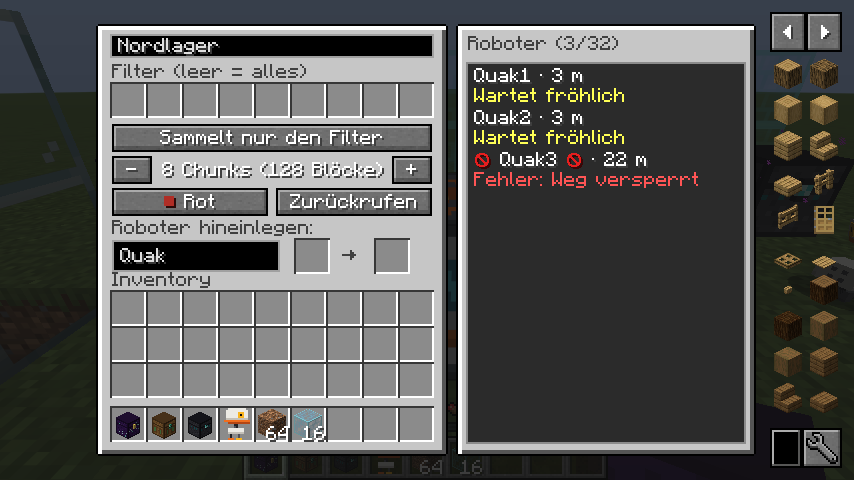
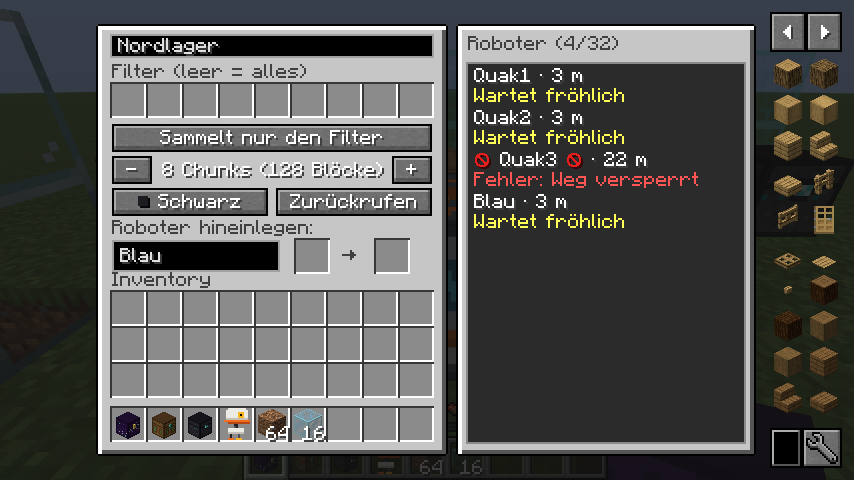
README: each robot keeps its own settings; station list with a differently set up robot
Claude-Session: https://claude.ai/code/session_01PrmjDFV55ANqJ3JywmcmfC

diff --git a/storage-dimension/src/gametest/java/de/nomisimo/storagedim/test/ClientScreenshots.java b/storage-dimension/src/gametest/java/de/nomisimo/storagedim/test/ClientScreenshots.java
@@ -151,12 +151,12 @@ public class ClientScreenshots implements FabricClientGameTest {
 
 			player.setItemInHand(InteractionHand.OFF_HAND, ItemStack.EMPTY);
 
-			// changing the station afterwards only affects robots set up from then on: a blue "Blau" next to the red Quaks
+			// changing the station afterwards only affects robots set up from then on: a black "Rabe" next to the red Quaks
 			BlockPos stationPos = base.offset(0, 0, -2);
 			StationMenu.open(player, stationPos);
 			StationMenu other = (StationMenu) player.containerMenu;
 			other.action(StationMenu.ACTION_COLOR, 1, "");
-			other.action(StationMenu.ACTION_ROBOT_NAME, 0, "Blau");
+			other.action(StationMenu.ACTION_ROBOT_NAME, 0, "Rabe");
 			other.setCarried(new ItemStack(Robots.ROBOT_ITEM));
 			other.clicked(StationMenu.SLOT_INPUT, 0, ContainerInput.PICKUP, player);
 			ItemStack blue = other.getSlot(StationMenu.SLOT_OUTPUT).getItem().copy();

diff --git a/.github/release-notes.md b/.github/release-notes.md
@@ -1,6 +1,6 @@
 Storage Dimension für **Minecraft 26.1.2** (Fabric).
 
-**Neu in 0.5.0:** Roboter-Station mit eigenem Fenster (echte Knöpfe und Textfelder): Stationsname, Filter (nur diese / alles außer diesen), Reichweite, Farbe und Robotername (doppelte Namen werden durchnummeriert, kostet keine Level), dazu eine Liste aller Roboter der Station (bis 32) mit Zustand und Entfernung. Roboter lassen sich nur noch an einer Station eingestellt hinstellen und folgen deren Einstellungen sofort. Roboter lagern nur noch in Speicher direkt an ihrer Station (Kisten, Fässer, Shulker- und Enderkisten, Dimensions-, Filter- und ME-Blöcke, Speicher anderer Mods; nie in Trichter oder Maschinen). Sind alle voll, warten sie traurig („Kisten voll“) und räumen weiter ein, sobald wieder Platz ist. Zurückrufen-Knopf: Alle laufen sofort los („auf dem Weg“), sammeln sich im 3×3-Feld um die Station (ab 21 Robotern 5×5) und warten eine Minute; dabei schauen sie den Spieler an, der gerufen hat. Teleportiert wird nur, wer keinen Weg findet; wer 3 Minuten nicht zur Station durchkommt, teleportiert sich ebenfalls hin. Kann ein Roboter nicht arbeiten, stehen rote 🚫 links und rechts von seinem Namen, der Grund steht als „Fehler: …“ in Jade und in der Stationsliste. Roboter hüpfen bis zu zwei Blöcke hoch, auch über Zäune und Mauern, steigen aus Booten aus, tauchen mit Glashelm, schwimmen schnell mit Spritzspur, spannen bei Regen einen Schirm in ihrer Farbe auf und wackeln beim Warten jeder im eigenen Takt. Mit Jade zeigt der Blick auf Roboter und Station Einstellungen und Zustand, mit Xaero's Minimap erscheinen die Roboter mit Gesicht auf der Karte. Filterkisten mit verzauberten Items als Filter nehmen nur Items mit genau diesen Verzauberungen. ME-Terminal: echte Knöpfe zum Blättern und Einlagern. Traveler's-Backpack-Add-on 0.5.0: Die ME-Ansicht im Rucksack ist aufgebaut wie die ME-Kiste (Suchleiste mit J-Schalter und Sortierung oben, Blättern, Einlagern und Mengenanzeige unten), die Rucksack-Knöpfe sind dort ausgeblendet. Getestet mit JEI 29.47.0.111, Jade 26.1.11 und Xaero's Minimap 26.6.2.
+**Neu in 0.5.0:** Roboter-Station mit eigenem Fenster (echte Knöpfe und Textfelder): Stationsname, Filter (nur diese / alles außer diesen), Reichweite, Farbe und Robotername (doppelte Namen werden durchnummeriert, kostet keine Level), dazu eine Liste aller Roboter der Station (bis 32) mit Zustand und Entfernung. Roboter lassen sich nur noch an einer Station eingestellt hinstellen; jeder behält seine eigenen Einstellungen (Name, Farbe, Filter, Reichweite), sodass an einer Station Roboter mit verschiedenen Aufgaben arbeiten können. Roboter lagern nur noch in Speicher direkt an ihrer Station (Kisten, Fässer, Shulker- und Enderkisten, Dimensions-, Filter- und ME-Blöcke, Speicher anderer Mods; nie in Trichter oder Maschinen). Sind alle voll, warten sie traurig („Kisten voll“) und räumen weiter ein, sobald wieder Platz ist. Zurückrufen-Knopf: Alle laufen sofort los („auf dem Weg“), sammeln sich im 3×3-Feld um die Station (ab 21 Robotern 5×5) und warten eine Minute; dabei schauen sie den Spieler an, der gerufen hat. Teleportiert wird nur, wer keinen Weg findet; wer 3 Minuten nicht zur Station durchkommt, teleportiert sich ebenfalls hin. Kann ein Roboter nicht arbeiten, stehen rote 🚫 links und rechts von seinem Namen, der Grund steht als „Fehler: …“ in Jade und in der Stationsliste. Roboter hüpfen bis zu zwei Blöcke hoch, auch über Zäune und Mauern, steigen aus Booten aus, tauchen mit Glashelm, schwimmen schnell mit Spritzspur, spannen bei Regen einen Schirm in ihrer Farbe auf und wackeln beim Warten jeder im eigenen Takt. Mit Jade zeigt der Blick auf Roboter und Station Einstellungen und Zustand, mit Xaero's Minimap erscheinen die Roboter mit Gesicht auf der Karte. Filterkisten mit verzauberten Items als Filter nehmen nur Items mit genau diesen Verzauberungen. ME-Terminal: echte Knöpfe zum Blättern und Einlagern. Traveler's-Backpack-Add-on 0.5.0: Die ME-Ansicht im Rucksack ist aufgebaut wie die ME-Kiste (Suchleiste mit J-Schalter und Sortierung oben, Blättern, Einlagern und Mengenanzeige unten), die Rucksack-Knöpfe sind dort ausgeblendet. Getestet mit JEI 29.47.0.111, Jade 26.1.11 und Xaero's Minimap 26.6.2.
 
 **Neu in 0.4.4:** Roboter-Station: stellt Reichweite (ab der Station), Filter, Farbe und Namen ein; Roboter kommt eingestellt aus dem Ausgang, die Einstellungen stehen im Tooltip. Namen schweben über den Robotern. Roboter arbeiten im Schwarm (jeder holt ein anderes Item), warten ohne Arbeit fröhlich an ihrer Station und sitzen traurig da, wenn sie die Station nicht erreichen oder keine Kiste in Reichweite ist. Sie stellen sich zum Aufheben direkt aufs Item. Das ME-Terminal kann seine Suche mit der JEI-Suchleiste koppeln (Schalter „J“). Traveler's-Backpack-Add-on 0.4.4 (hat jetzt dieselbe Versionsnummer): Das ME-Upgrade zeigt den ME-Speicher direkt im Rucksack-Fenster an Stelle des Rucksack-Inhalts, Crafting und die anderen Upgrades bleiben daneben; ein zweiter Klick zeigt wieder den Rucksack. JEIs „+“ ist nur noch grün, wenn wirklich alle Zutaten in ME, Rucksack oder Inventar liegen. Getestet mit JEI 29.47.0.111.
 

diff --git a/README.md b/README.md
@@ -86,7 +86,7 @@ Ein kleiner Roboter mit Schnabel. Er sammelt herumliegende Items ein, immer eine
 
 ### Roboter-Station
 
-Ohne Station geht nichts: Ein Roboter lässt sich erst hinstellen, wenn er in einer Roboter-Station eingestellt wurde. Danach folgt er immer den Einstellungen seiner Station. Was dort geändert wird, gilt sofort für alle ihre Roboter, am Roboter selbst lässt sich nichts umstellen.
+Ohne Station geht nichts: Ein Roboter lässt sich erst hinstellen, wenn er in einer Roboter-Station eingestellt wurde. Jeder Roboter behält dabei seine eigenen Einstellungen (Name, Farbe, Filter, Reichweite), so wie sie beim Einstellen im Item gespeichert wurden. Änderungen an der Station gelten nur für Roboter, die danach eingestellt werden. So können an einer Station Roboter mit ganz verschiedenen Aufgaben arbeiten. Um einen gesetzten Roboter umzustellen, hebt man ihn auf (Schleichen + Rechtsklick) und legt ihn noch einmal in die Station.
 
 Rechtsklick auf die Station öffnet ihr Fenster:
 
@@ -95,7 +95,7 @@ Rechtsklick auf die Station öffnet ihr Fenster:
 - **Reichweite** mit − und +: 1 bis 10 Chunks, gemessen ab der Station.
 - **Farbe:** Klick schaltet weiter.
 - **Zurückrufen:** siehe unten.
-- **Robotername:** Bekommen mehrere Roboter denselben Namen, werden sie durchnummeriert (Quak1, Quak2 …). Das Benennen kostet keine Level.
+- **Robotername:** für die nächsten Roboter, die eingestellt werden. Bekommen mehrere Roboter einer Station denselben Namen, werden sie durchnummeriert (Quak1, Quak2 …). Das Benennen kostet keine Level.
 - **Roboter einstellen:** Roboter links in den Eingang legen, er kommt rechts eingestellt wieder heraus. Die Einstellungen stehen im Tooltip des Roboter-Items.
 - **Roboterliste** rechts daneben: alle Roboter der Station (höchstens 32) mit Entfernung und dem, was jeder gerade tut. Das Mausrad blättert.
 
